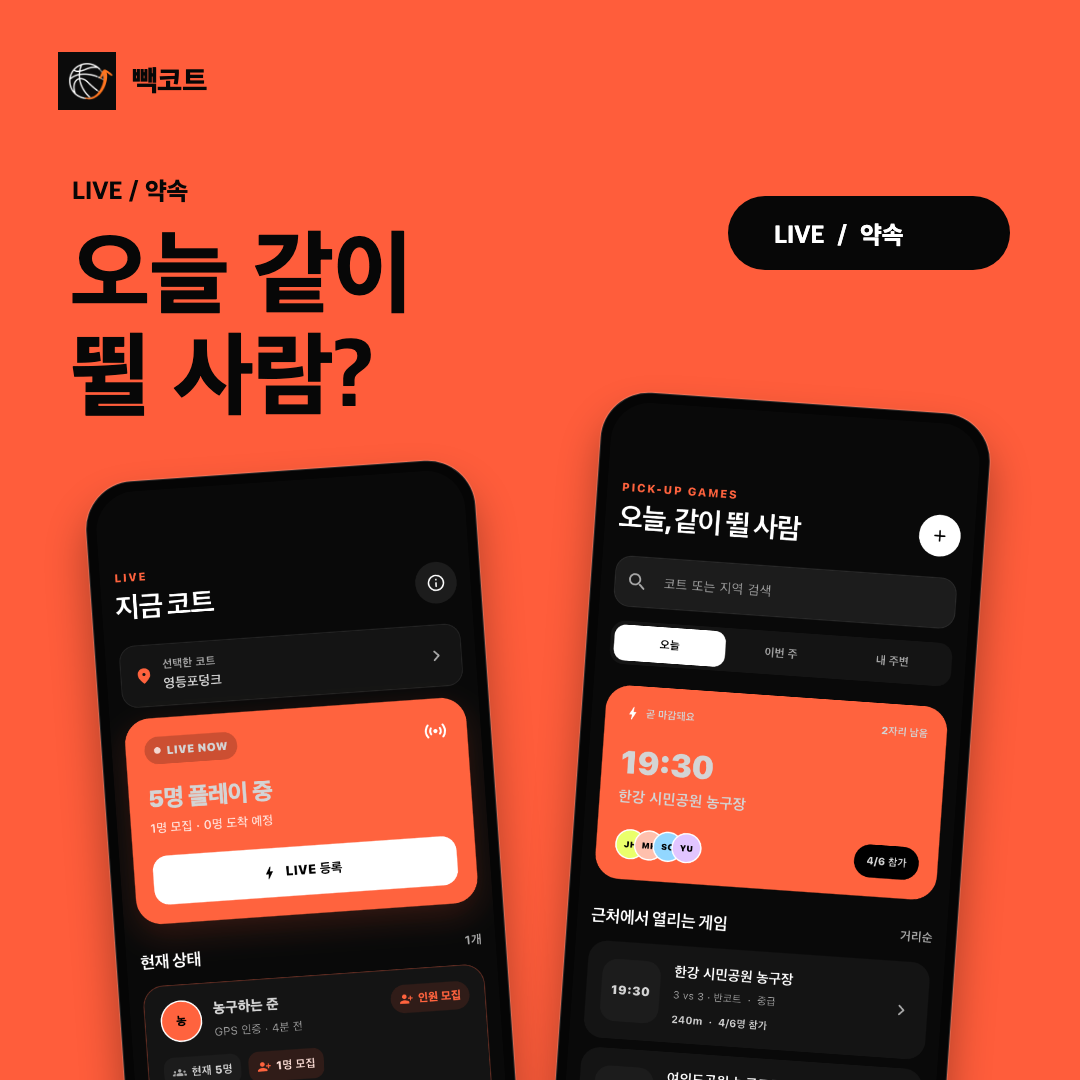
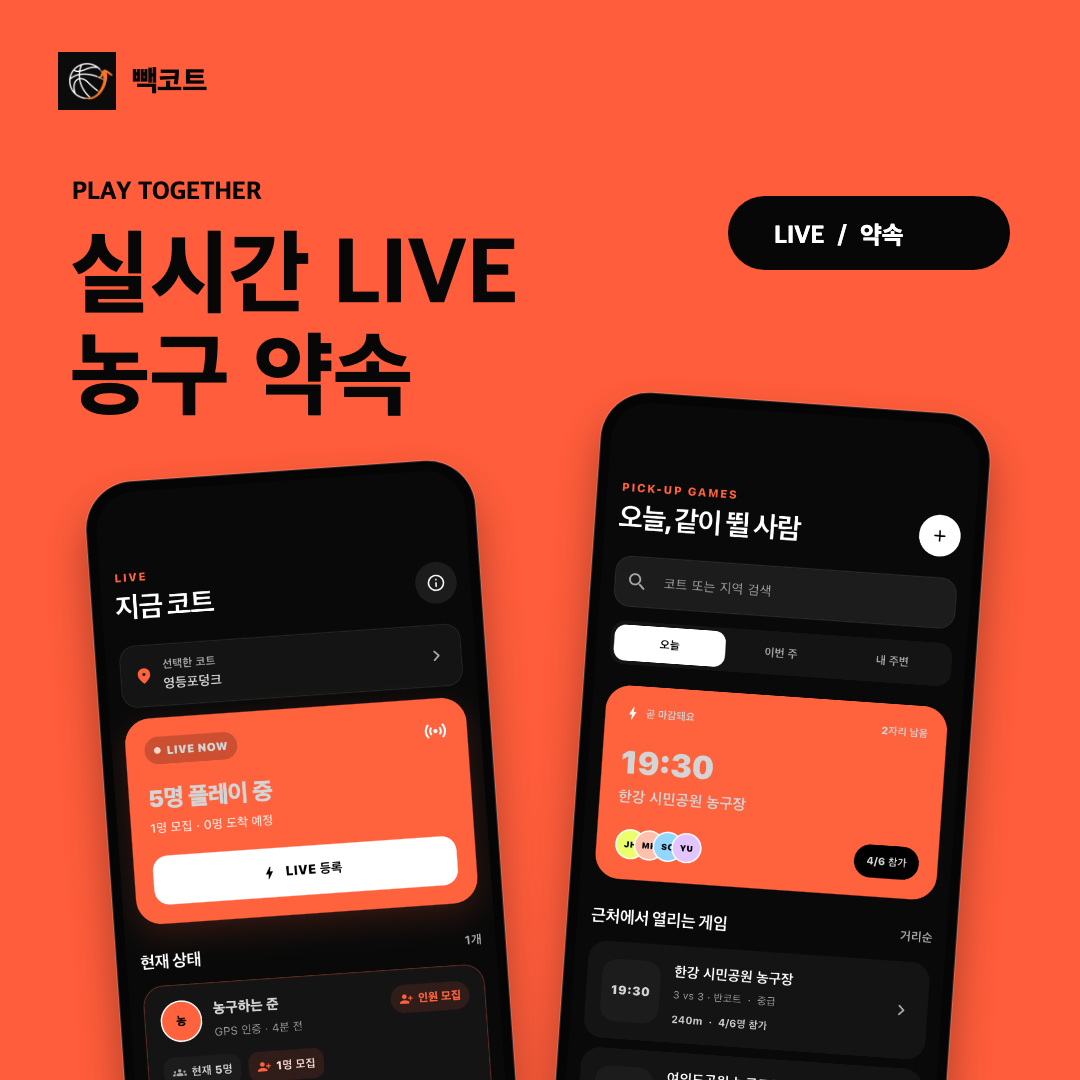
Use direct feature copy for social promos

Changed region(s): [[0.0611, 0.2139, 0.4889, 0.3972], [0.0611, 0.1528, 0.2444, 0.1833]]

diff --git a/Backcourt-Social/app.js b/Backcourt-Social/app.js
@@ -163,11 +163,11 @@ function slide2(ctx) {
   ctx.fillStyle = C.ink;
   ctx.fillRect(0, 0, SIZE, SIZE);
   brand(ctx, true);
-  label(ctx, "코트 찾기", 72, 216);
+  label(ctx, "COURT MAP", 72, 216);
   ctx.fillStyle = C.white;
   ctx.font = font(900, 92);
-  ctx.fillText("근처에", 70, 328);
-  ctx.fillText("코트 있나?", 70, 432);
+  ctx.fillText("전국 농구", 70, 328);
+  ctx.fillText("코트 지도", 70, 432);
   roundedFill(ctx, 70, 493, 360, 72, 36, C.orange);
   ctx.fillStyle = C.white;
   ctx.font = font(900, 28);
@@ -191,11 +191,11 @@ function slide3(ctx) {
   ctx.fillStyle = C.orange;
   ctx.fillRect(0, 0, SIZE, SIZE);
   brand(ctx, false);
-  label(ctx, "LIVE / 약속", 72, 200, C.ink);
+  label(ctx, "PLAY TOGETHER", 72, 200, C.ink);
   ctx.fillStyle = C.ink;
   ctx.font = font(900, 92);
-  ctx.fillText("오늘 같이", 70, 306);
-  ctx.fillText("뛸 사람?", 70, 408);
+  ctx.fillText("실시간 LIVE", 70, 306);
+  ctx.fillText("농구 약속", 70, 408);
 
   roundedFill(ctx, 728, 196, 282, 74, 37, C.ink);
   ctx.fillStyle = C.white;
@@ -210,12 +210,12 @@ function slide4(ctx) {
   ctx.fillStyle = C.paper;
   ctx.fillRect(0, 0, SIZE, SIZE);
   brand(ctx, false);
-  label(ctx, "출석 / 랭킹", 70, 214);
+  label(ctx, "COURT CHECK-IN", 70, 214);
   ctx.fillStyle = C.ink;
   ctx.font = font(900, 86);
-  ctx.fillText("코트 도착.", 68, 320);
+  ctx.fillText("GPS 출석", 68, 320);
   ctx.fillStyle = C.orange;
-  ctx.fillText("출석 완료.", 68, 418);
+  ctx.fillText("코트 랭킹", 68, 418);
   ctx.fillStyle = "#55524e";
   ctx.font = font(800, 26);
   ctx.fillText("GPS 출석 · 플레이 시간 · 월간 랭킹", 72, 480);
@@ -244,12 +244,12 @@ function slide5(ctx) {
   ctx.fillStyle = C.ink;
   ctx.fillRect(0, 0, SIZE, SIZE);
   brand(ctx, true);
-  label(ctx, "피드 / 프로필", 70, 205);
+  label(ctx, "COURT STORIES", 70, 205);
   ctx.fillStyle = C.white;
   ctx.font = font(900, 86);
-  ctx.fillText("오늘 코트", 68, 308);
+  ctx.fillText("코트 리뷰", 68, 308);
   ctx.fillStyle = C.orange;
-  ctx.fillText("어땠음?", 68, 408);
+  ctx.fillText("농구 피드", 68, 408);
   ctx.fillStyle = C.muted;
   ctx.font = font(800, 26);
   ctx.fillText("피드 · 프로필 · 나의 기록", 72, 468);
